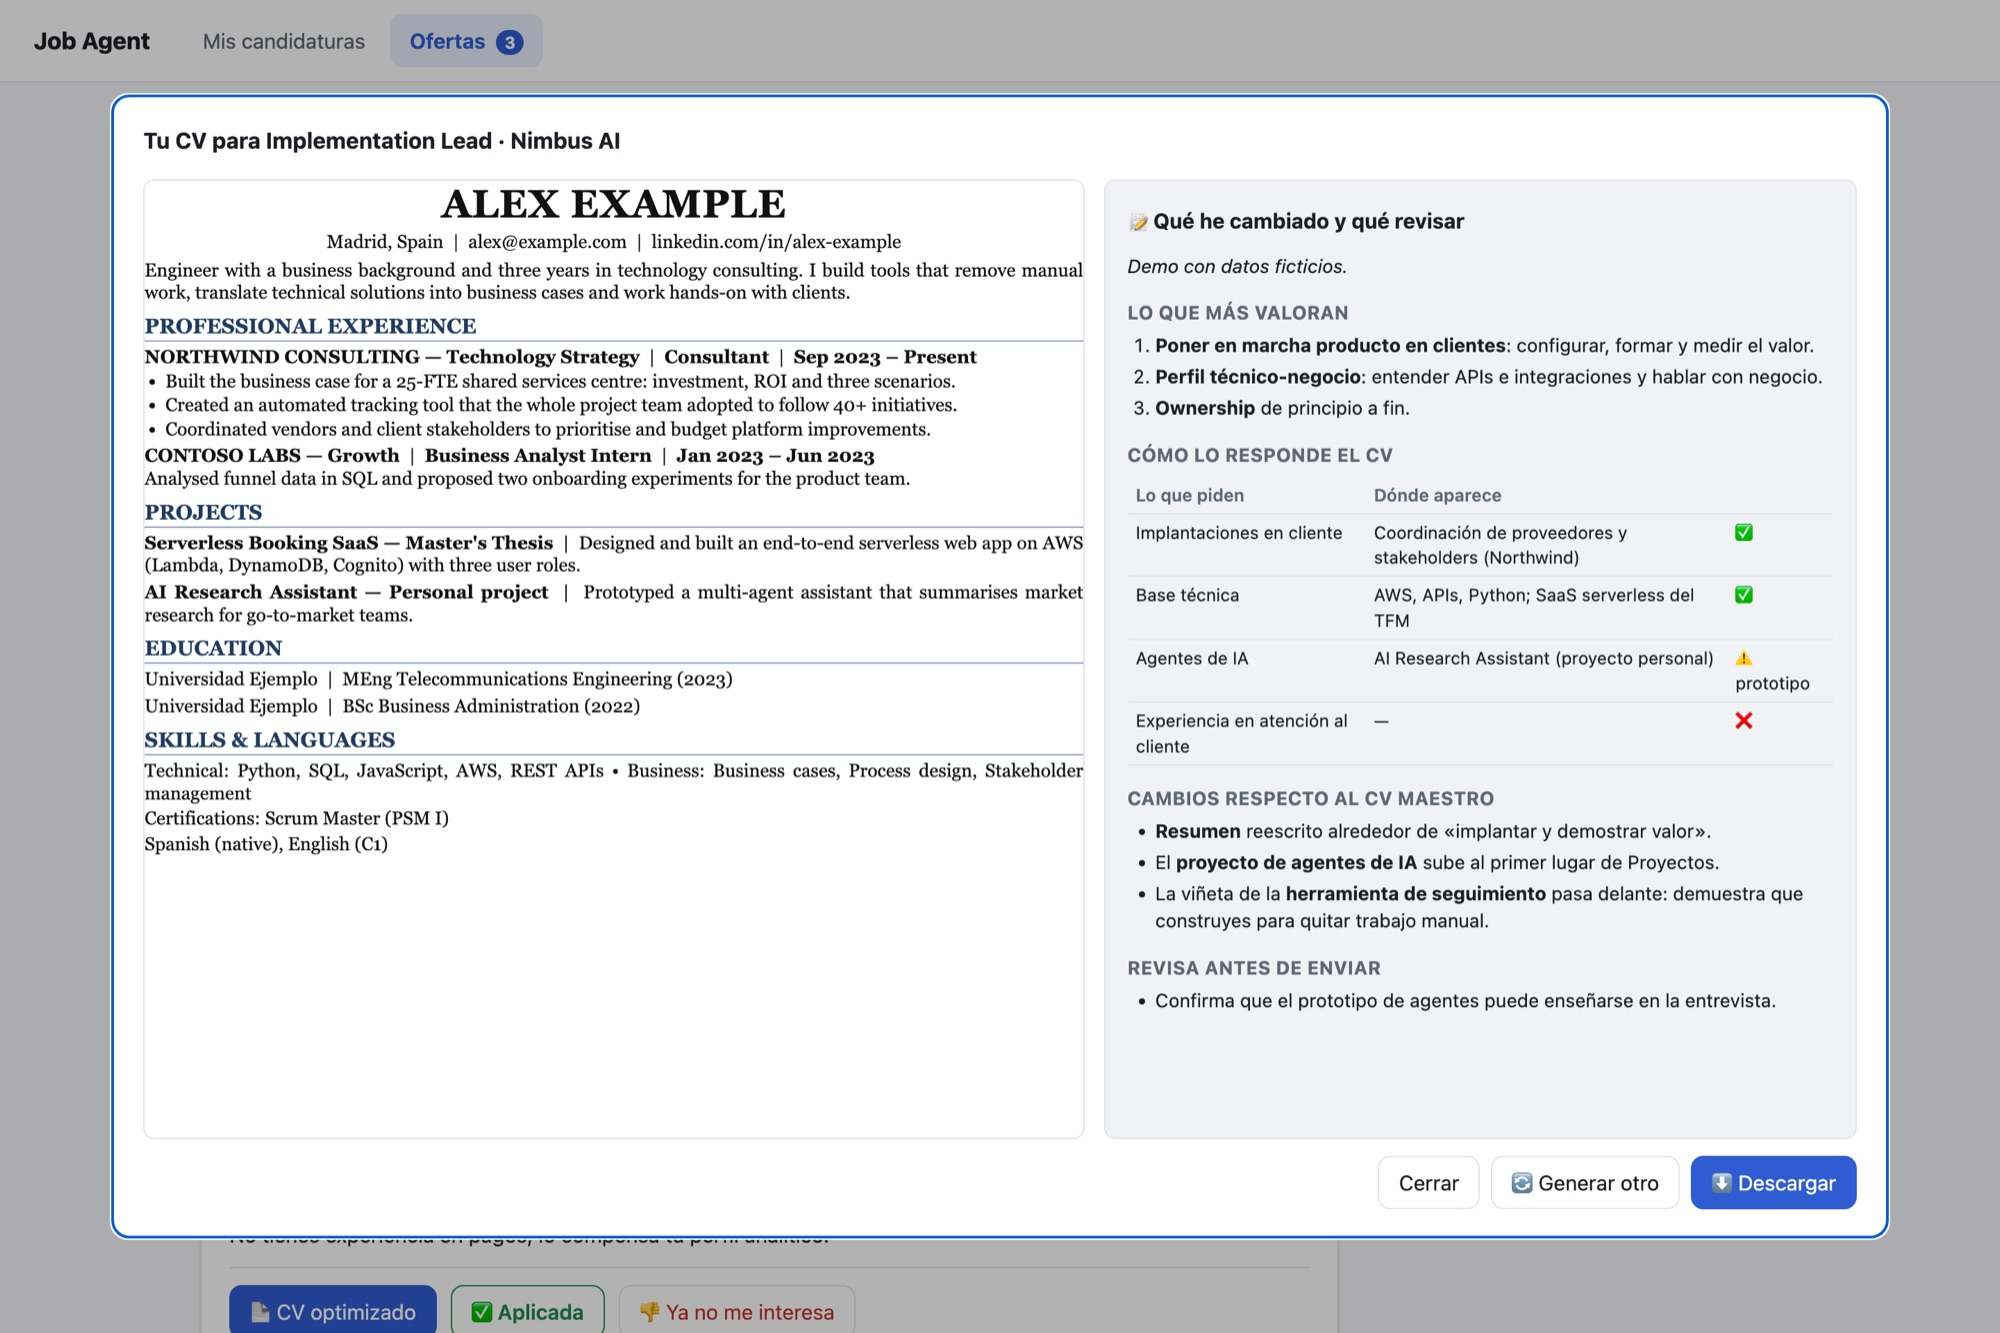
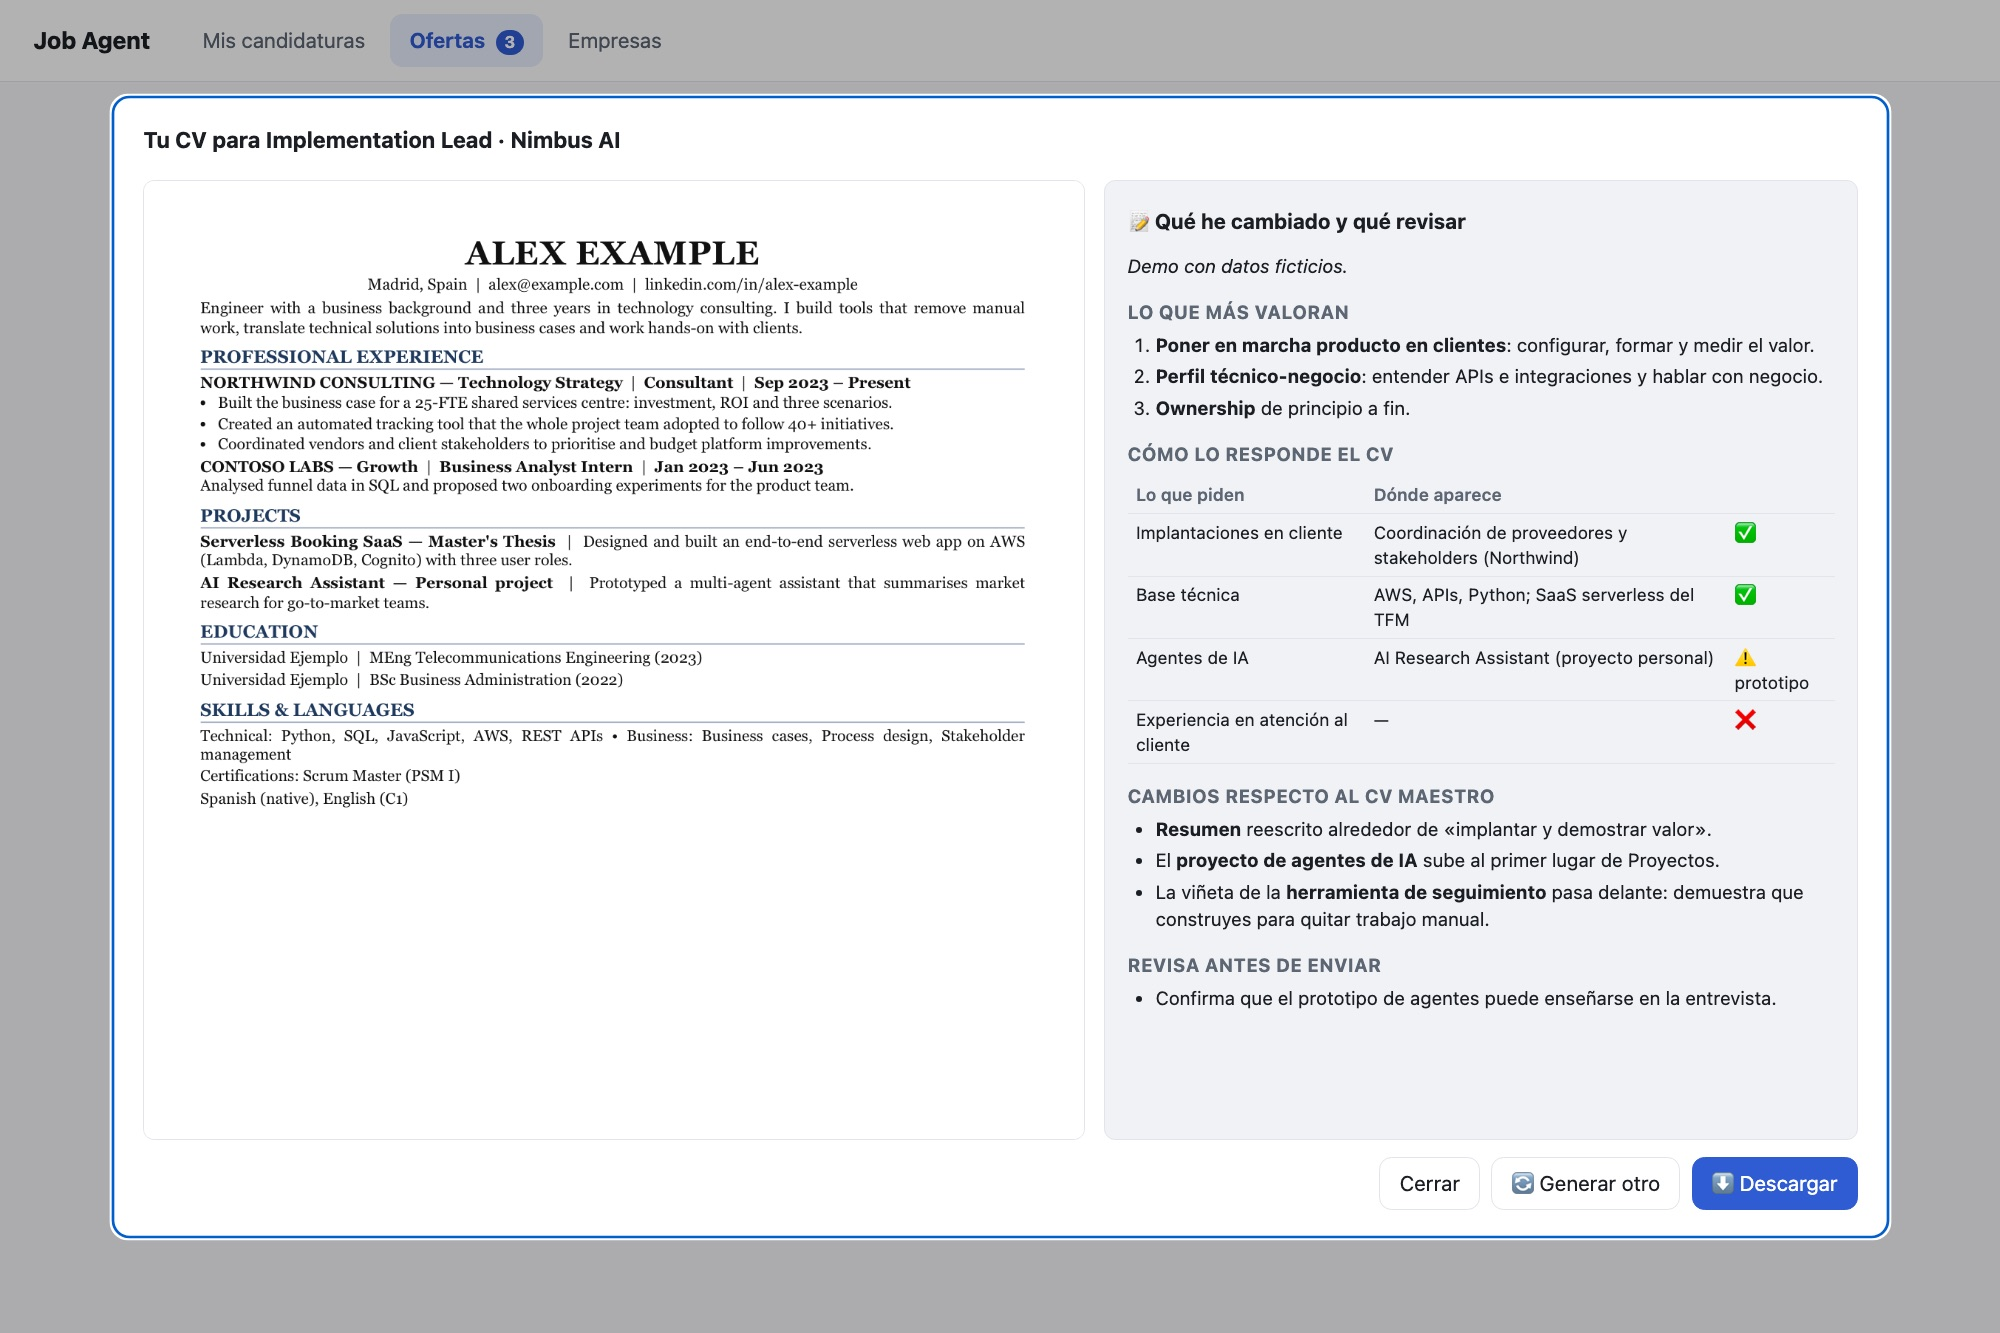
README: fichas de empresas y capturas nuevas
Añade la pestaña Empresas al resumen en inglés y a la documentación,
actualiza las capturas de demo (datos ficticios) y el tamaño del código.

diff --git a/README.md b/README.md
@@ -12,6 +12,8 @@ I've been turned down.
 |---|---|
 | ![Openings with fit score and analysis](docs/ja-ofertas.jpg) | ![Tailored CV preview with notes](docs/ja-cv.jpg) |
 
+![Company cards for every active application](docs/ja-empresas.jpg)
+
 <sub>Screenshots use fictitious demo data: made-up person, companies and openings.</sub>
 
 **What it does**
@@ -21,6 +23,8 @@ I've been turned down.
 - **Tailored CV:** one page per opening, never inventing anything, with notes on what they value, what
   changed and which gaps to prepare. It flags any figure that isn't in my CV.
 - **Tracking:** a dashboard with today's to-dos, applications by stage and an AI-suggested next step.
+- **Company cards:** one card per company with an active application: what it does and for whom, type,
+  size or funding, HQ, website and my roles there. Researched on the web automatically, once per company.
 - **Gmail:** checks the inbox every 2 minutes, detects interviews, rejections, offers and deadlines, and
   updates the application. Read and label only.
 - **Slack:** 17 actions on my data from my phone ("I got rejected at X", "research this opening"…).
@@ -30,7 +34,7 @@ up · cost under control (free filters, then a ~$0.0005 title screening, then in
 batches of 10) · privacy (runs locally; keys never leave the machine).
 
 **Built with:** Python, HTML/CSS/JS, Claude API and Claude Code, Gmail API (OAuth), Slack API (Socket
-Mode). ~5,100 lines in 15 modules. I designed the product, flows, rules and limits, built it with Claude
+Mode). ~5,200 lines in 16 modules. I designed the product, flows, rules and limits, built it with Claude
 Code as a copilot and validated it in daily, real use.
 
 ---
@@ -73,7 +77,7 @@ Requisitos: Python 3.9+ y Google Chrome (para generar los CVs en PDF). Para el a
 **Abrir:** doble clic en `Abrir Job Agent.command`, o `.venv/bin/python -I app/servidor.py --abrir`.
 Se abre en `http://127.0.0.1:8765`, solo en tu Mac. Para cerrarla, cierra la ventana de Terminal.
 
-Dos pestañas:
+Tres pestañas:
 
 1. **Mis candidaturas** — un dashboard de solo lectura: **Para hoy** resumido en texto, tus
    cifras (enviadas, % con respuesta, entrevistas, ofertas), las **candidaturas por etapa** y una
@@ -92,6 +96,10 @@ Dos pestañas:
    harías, por qué encaja y por qué no encaja**; pulsas **👍 Me interesa** o **👎 No me interesa** y
    una ventana te pregunta el porqué (opcional). *Te interesa* son las que te interesan y aún no has
    enviado; las que no te interesan desaparecen.
+3. **Empresas** — una ficha por cada empresa en la que tienes una candidatura por aplicar, aplicada, en
+   entrevistas o con oferta, de la más avanzada a la menos: qué hace y para quién, tipo (startup, scale-up,
+   big tech…), tamaño o financiación, sede, web y tus puestos allí con su etapa. Se investigan solas en la web
+   en cuanto la empresa entra en el proceso, una sola vez por empresa.
 
 **CV adaptado desde la app:** Claude lee la oferta y adapta tu CV maestro sin inventar nada; en
 1-3 minutos tienes el PDF de una página y unas notas con lo que valoran, los cambios, lo que te
